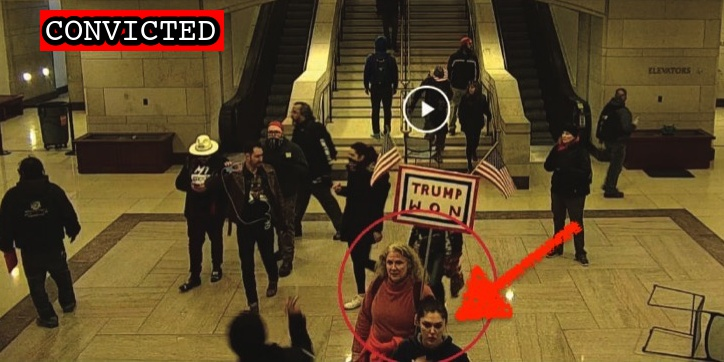
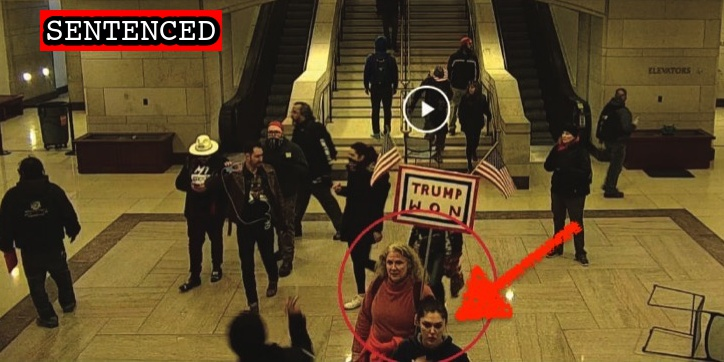
Sentencing

Changed region(s): [[0.0304, 0.0304, 0.2431, 0.1519], [0.3039, 0.0304, 0.3343, 0.1519]]

diff --git a/docs/_suspects/jean-lavin.md b/docs/_suspects/jean-lavin.md
@@ -4,18 +4,18 @@ lastName: Lavin
 hashtag: JeanLavin
 aka:
 residence: Connecticut
-status: Convicted
+status: Sentenced
 date: 2021-09-09
 charged: 2021-09-09
 indicted:
 convicted: 2022-01-11
 acquitted:
-sentenced:
+sentenced: 2022-04-22
 dismissed:
 deceased:
 plea_hearing: 2022-01-11
 trial_date:
-sentencing:
+sentencing: 2022-04-22
 age: 56
 occupation:
 affiliations:
@@ -36,12 +36,18 @@ published: true
 caseNumber: 1:21-mj-594
 videos:
 charges:
-- code: 40 USC § 5104(e)(2)(G)
-  title: Parading, demonstrating or picketing in a Capitol building
-  url: https://www.law.cornell.edu/uscode/text/40/5104
-  felony: false
+  - code: 40 USC § 5104(e)(2)(G)
+    title: Parading, demonstrating or picketing in a Capitol building
+    url: https://www.law.cornell.edu/uscode/text/40/5104
+    felony: false
 sentence:
+  - 10 days jail (to be served on weekends)
+  - 60 days home detention
+  - 3 years probation
+  - $2,500 fine
+  - $500 restitution
 ---
+
 - [News Report](https://www.huffpost.com/entry/jean-lavin-carla-krzywicki-arrested-capitol-attack_n_6140e900e4b09519c50adbe5)
 - [Statement of Facts](https://www.justice.gov/usao-dc/case-multi-defendant/file/1433371/download)
 - [Information](https://extremism.gwu.edu/sites/g/files/zaxdzs2191/f/Carla%20Krzywicki%20and%20Jean%20Lavin%20Information.pdf)

diff --git a/docs/_suspects/carla-krzywicki.md b/docs/_suspects/carla-krzywicki.md
@@ -4,18 +4,18 @@ lastName: Krzywicki
 hashtag: CarlaKrzywicki
 aka:
 residence: Connecticut
-status: Convicted
+status: Sentenced
 date: 2021-09-09
 charged: 2021-09-09
 indicted:
 convicted: 2022-01-11
 acquitted:
-sentenced:
+sentenced: 2022-04-22
 dismissed:
 deceased:
 plea_hearing: 2022-01-11
 trial_date:
-sentencing:
+sentencing: 2022-04-22
 age: 19
 occupation:
 affiliations:
@@ -36,12 +36,17 @@ published: true
 caseNumber: 1:21-mj-594
 videos:
 charges:
-- code: 40 USC § 5104(e)(2)(G)
-  title: Parading, demonstrating or picketing in a Capitol building
-  url: https://www.law.cornell.edu/uscode/text/40/5104
-  felony: false
+  - code: 40 USC § 5104(e)(2)(G)
+    title: Parading, demonstrating or picketing in a Capitol building
+    url: https://www.law.cornell.edu/uscode/text/40/5104
+    felony: false
 sentence:
+  - 90 days home confinement
+  - 3 years probation
+  - mandatory mental health treatment
+  - $500 restitution
 ---
+
 - [News Report](https://www.huffpost.com/entry/jean-lavin-carla-krzywicki-arrested-capitol-attack_n_6140e900e4b09519c50adbe5)
 - [Statement of Facts](https://www.justice.gov/usao-dc/case-multi-defendant/file/1433371/download)
 - [Information](https://extremism.gwu.edu/sites/g/files/zaxdzs2191/f/Carla%20Krzywicki%20and%20Jean%20Lavin%20Information.pdf)
